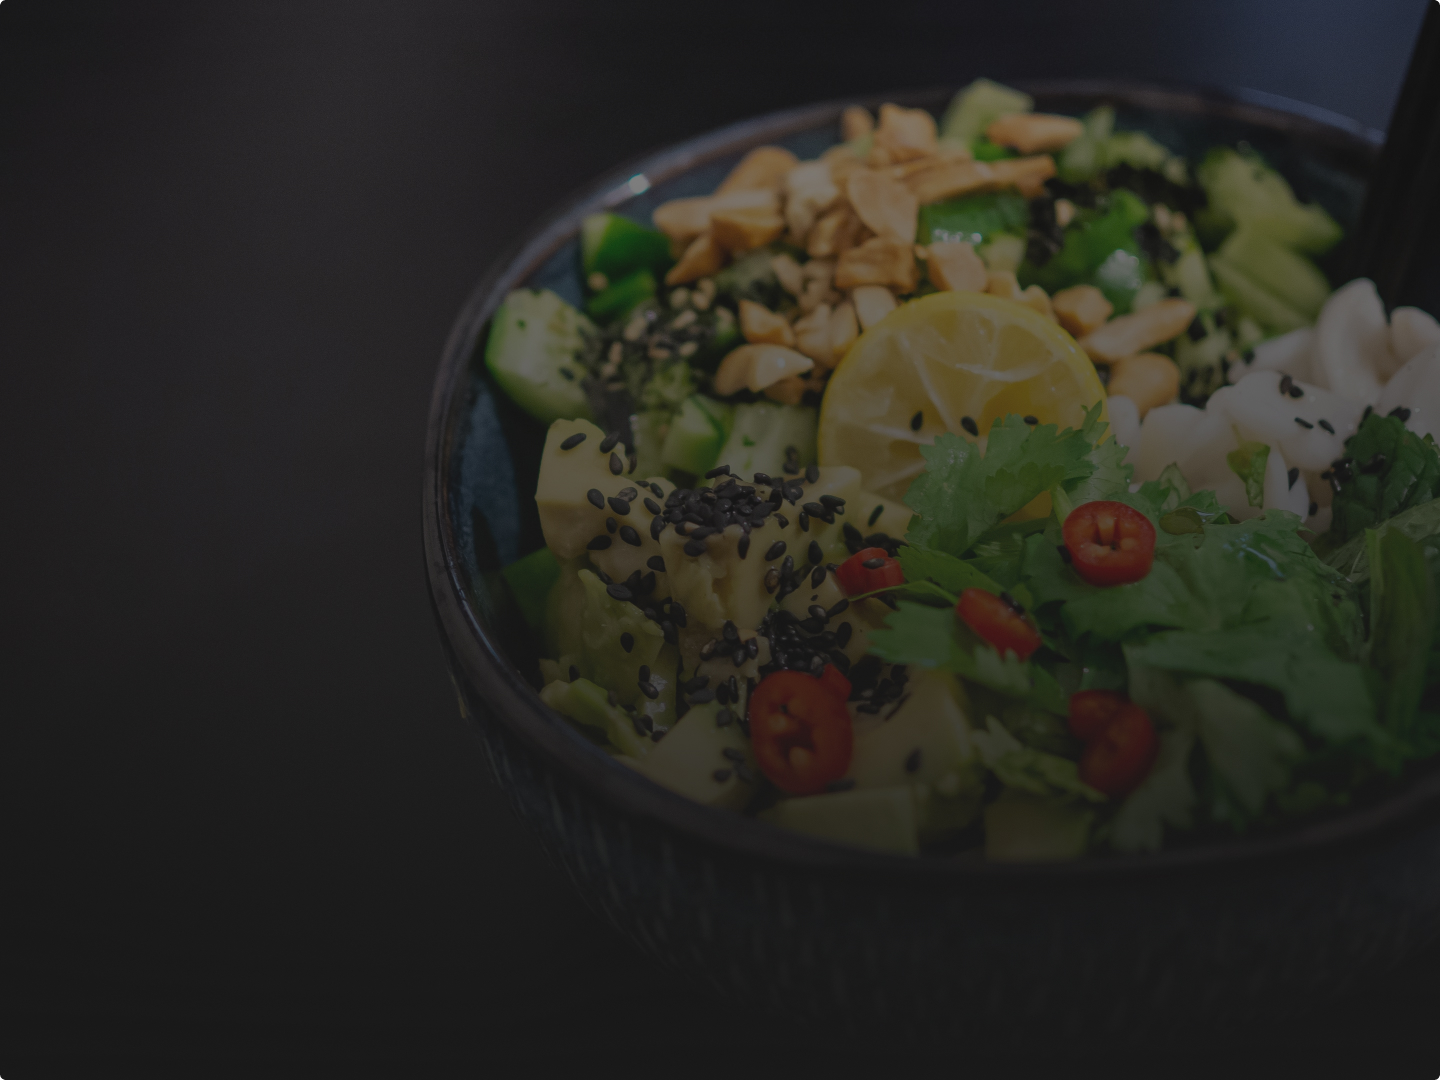
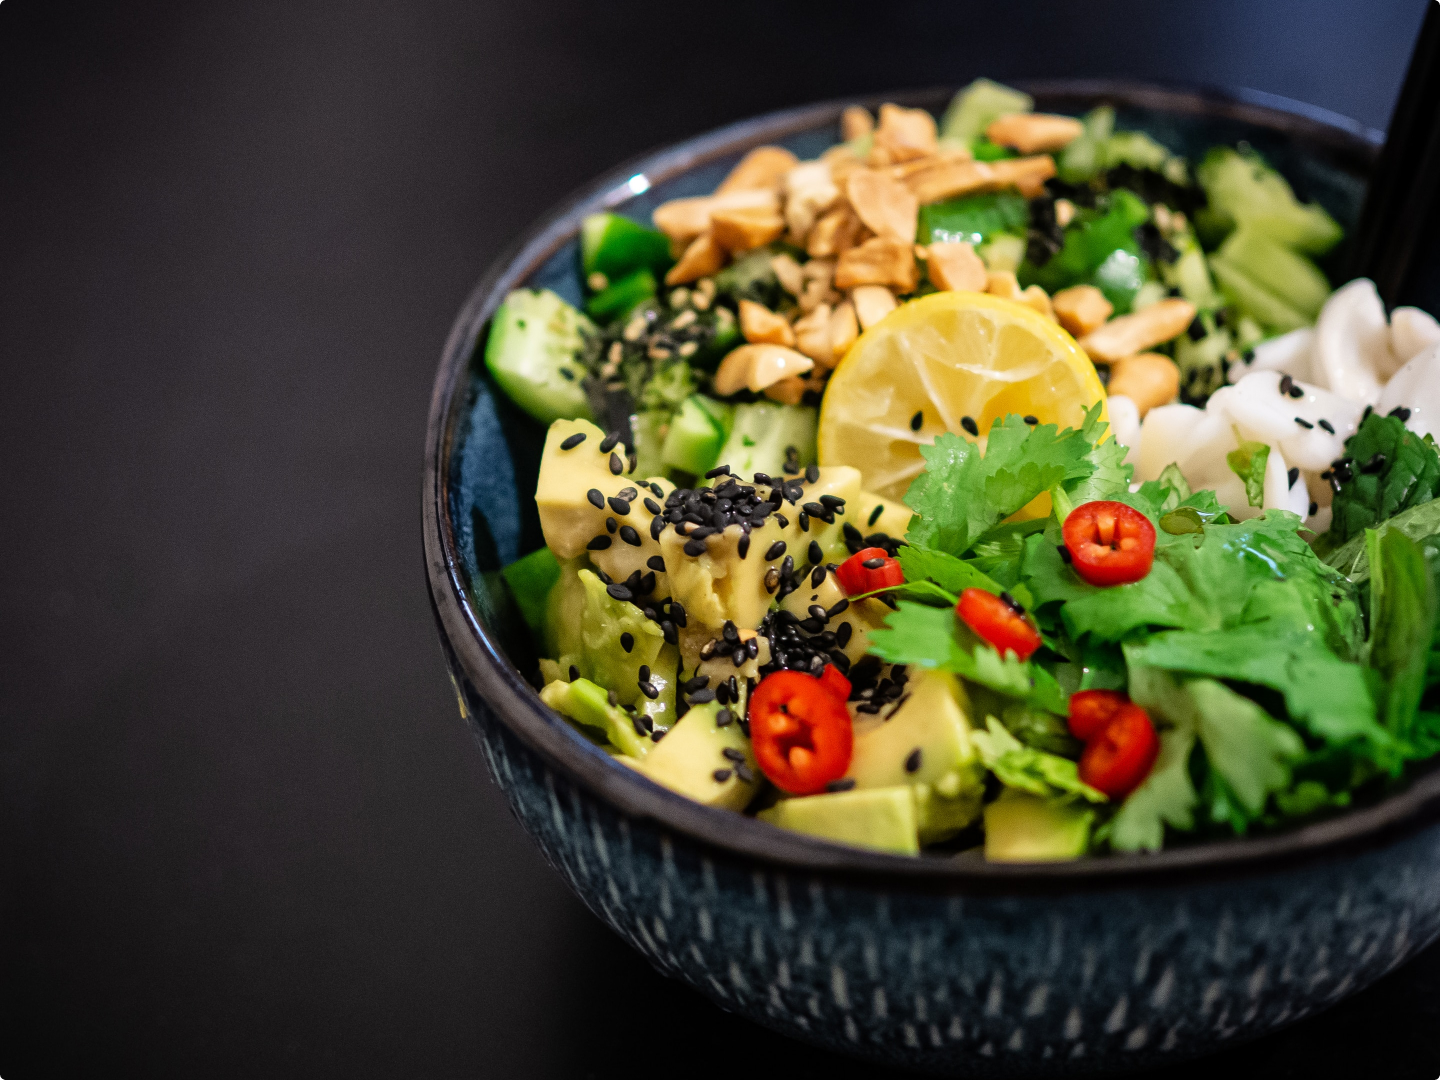
V_3

diff --git a/css/style.css b/css/style.css
@@ -141,7 +141,6 @@ body {
   display: -ms-flexbox;
   display: flex;
   min-height: 90px;
-  padding: 5px 0px;
   -webkit-box-align: center;
       -ms-flex-align: center;
           align-items: center;
@@ -179,13 +178,11 @@ body {
   -webkit-box-pack: end;
       -ms-flex-pack: end;
           justify-content: flex-end;
-}
-
-@media (max-width: 767.8px) {
-  .menu__list {
-    -ms-flex-wrap: wrap;
-        flex-wrap: wrap;
-  }
+  -webkit-box-align: center;
+      -ms-flex-align: center;
+          align-items: center;
+  -ms-flex-wrap: wrap;
+      flex-wrap: wrap;
 }
 
 @media (max-width: 479px) {
@@ -201,7 +198,7 @@ body {
 
 .menu__link {
   font-size: 14px;
-  line-height: 1.57;
+  line-height: 1.2;
   color: #ffffff;
   -webkit-transition: color 0.2s ease 0s;
   -o-transition: color 0.2s ease 0s;
@@ -233,6 +230,20 @@ body {
 .favorite {
   padding: 171px 0px 300px 0px;
   position: relative;
+}
+
+.favorite::before {
+  content: "";
+  position: absolute;
+  top: 0;
+  left: 0;
+  width: 100%;
+  height: 100%;
+  background: rgba(33, 33, 33, 0.5) -webkit-gradient(linear, left top, left bottom, from(rgba(26, 26, 26, 0.0001)), to(#1a1a1a));
+  background: rgba(33, 33, 33, 0.5) -webkit-linear-gradient(top, rgba(26, 26, 26, 0.0001) 0%, #1a1a1a 100%);
+  background: rgba(33, 33, 33, 0.5) -o-linear-gradient(top, rgba(26, 26, 26, 0.0001) 0%, #1a1a1a 100%);
+  background: rgba(33, 33, 33, 0.5) linear-gradient(180deg, rgba(26, 26, 26, 0.0001) 0%, #1a1a1a 100%);
+  z-index: 1;
 }
 
 @media (max-width: 1140px) {
@@ -752,7 +763,6 @@ body {
   -webkit-box-flex: 1;
       -ms-flex: 1 1 33.333%;
           flex: 1 1 33.333%;
-  min-width: 290px;
 }
 
 .dishes-item {
@@ -770,6 +780,7 @@ body {
   -webkit-box-shadow: 0px 2px 5px rgba(0, 0, 0, 0.1);
           box-shadow: 0px 2px 5px rgba(0, 0, 0, 0.1);
   overflow: hidden;
+  min-width: 290px;
 }
 
 .dishes-item__image {
@@ -852,8 +863,8 @@ body {
   display: -webkit-box;
   display: -ms-flexbox;
   display: flex;
-  -webkit-column-gap: 5px;
-          column-gap: 5px;
+  -webkit-column-gap: 10px;
+          column-gap: 10px;
   -webkit-box-pack: justify;
       -ms-flex-pack: justify;
           justify-content: space-between;
@@ -912,11 +923,12 @@ body {
   display: flex;
   font-size: 24px;
   position: relative;
+  display: inline-block;
 }
 
 .rating::before {
   content: "✩✩✩✩✩";
-  display: inline-block;
+  display: block;
 }
 
 .rating__items {
@@ -932,6 +944,7 @@ body {
   -webkit-box-direction: reverse;
       -ms-flex-direction: row-reverse;
           flex-direction: row-reverse;
+  overflow: hidden;
 }
 
 .rating__item {
@@ -958,6 +971,7 @@ body {
       -ms-flex: 0 0 20%;
           flex: 0 0 20%;
   height: 100%;
+  font-size: 24px;
   cursor: pointer;
   color: #4d4d4d;
 }
@@ -967,6 +981,7 @@ body {
   -webkit-transition: color 0.2s ease 0s, content 0.2s ease 0s;
   -o-transition: color 0.2s ease 0s, content 0.2s ease 0s;
   transition: color 0.2s ease 0s, content 0.2s ease 0s;
+  display: block;
 }
 
 .rating__label:hover,

diff --git a/css/style.scss b/css/style.scss
@@ -90,7 +90,6 @@ body {
 	&__container {
 		display: flex;
 		min-height: 90px;
-		padding: 5px 0px;
 		align-items: center;
 		column-gap: 10px;
 		@media (max-width: 479px) {
@@ -120,9 +119,9 @@ body {
 		display: flex;
 		column-gap: 50px;
 		justify-content: flex-end;
-		@media (max-width: 767.8px) {
-			flex-wrap: wrap;
-		}
+		align-items: center;
+		flex-wrap: wrap;
+
 		@media (max-width: 479px) {
 			column-gap: 25px;
 		}
@@ -135,7 +134,7 @@ body {
 
 	&__link {
 		font-size: 14px;
-		line-height: 1.57;
+		line-height: 1.2;
 		color: $wColor;
 		transition: color 0.2s ease 0s;
 		@media (max-width: 767.8px) {
@@ -159,6 +158,16 @@ body {
 .favorite {
 	padding: 171px 0px 300px 0px;
 	position: relative;
+	&::before {
+		content: "";
+		position: absolute;
+		top: 0;
+		left: 0;
+		width: 100%;
+		height: 100%;
+		background: hsla(0, 0%, 13%, 0.5) linear-gradient(180deg, rgba(26, 26, 26, 0.0001) 0%, #1a1a1a 100%);
+		z-index: 1;
+	}
 	@media (max-width: 1140px) {
 		padding: 171px 0px 250px 0px;
 	}
@@ -544,7 +553,6 @@ body {
 	&__item {
 		padding: 0px 15px;
 		flex: 1 1 33.333%;
-		min-width: 290px;
 	}
 }
 .dishes-item {
@@ -556,6 +564,7 @@ body {
 	background-color: #252525;
 	box-shadow: 0px 2px 5px rgba(0, 0, 0, 0.1);
 	overflow: hidden;
+	min-width: 290px;
 
 	// .dishes-item__image
 
@@ -626,7 +635,7 @@ body {
 
 	&__body {
 		display: flex;
-		column-gap: 5px;
+		column-gap: 10px;
 		justify-content: space-between;
 	}
 
@@ -683,9 +692,10 @@ body {
 	display: flex;
 	font-size: 24px;
 	position: relative;
+	display: inline-block;
 	&::before {
 		content: "✩✩✩✩✩";
-		display: inline-block;
+		display: block;
 	}
 	// .rating__items
 
@@ -697,6 +707,7 @@ body {
 		height: 100%;
 		display: flex;
 		flex-direction: row-reverse;
+		overflow: hidden;
 	}
 
 	// .rating__item
@@ -723,11 +734,13 @@ body {
 	&__label {
 		flex: 0 0 20%;
 		height: 100%;
+		font-size: 24px;
 		cursor: pointer;
 		color: #4d4d4d;
 		&::before {
 			content: "✩";
 			transition: color 0.2s ease 0s, content 0.2s ease 0s;
+			display: block;
 		}
 		&:hover,
 		&:hover ~ &,

diff --git a/index.html b/index.html
@@ -478,6 +478,7 @@
 		</main>
 		<footer class="footer">я футер
 		</footer>
+	</div>
 </body>
 
 </html>
